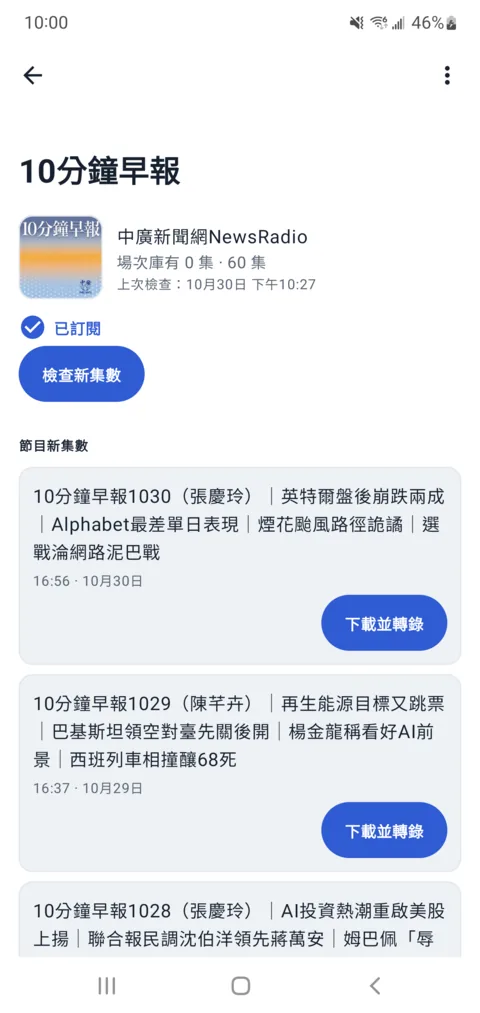
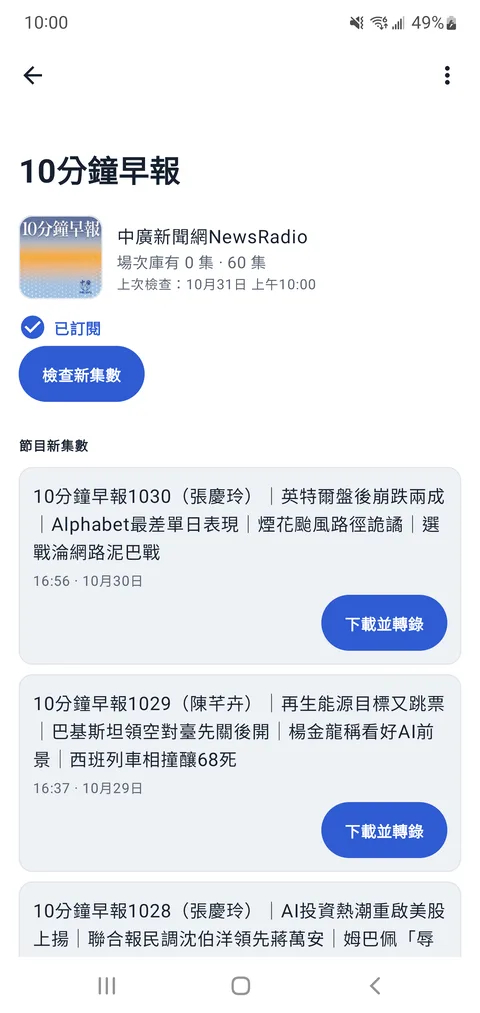
landing-v2: og image in the slate/blue palette, channel shot with a 10:00 last check

diff --git a/landing-v2/index.html b/landing-v2/index.html
@@ -9,7 +9,7 @@
 <meta property="og:type" content="website">
 <meta property="og:title" content="Prime Minutes｜會議紀錄，在手機上就寫好">
 <meta property="og:description" content="逐字稿、分辨講者、AI 筆記與摘要、搜尋與提問，全程在手機上完成，不上傳。">
-<meta property="og:image" content="site/og.png">
+<meta property="og:image" content="assets/og.png">
 <link rel="icon" href="assets/favicon.svg" type="image/svg+xml">
 <style>
 /* P2 cool slate + blue accent; red only for record / live */

diff --git a/landing-v2/media-needed.md b/landing-v2/media-needed.md
@@ -17,3 +17,5 @@ Format: webp 480 px wide, 9:19.5 portrait unless noted; zh-TW UI, light theme; d
 | M12 | og:image | 1200×630 in slate/blue palette | — | site/og.png (dark/green) |
 
 Already P2 and reusable as-is: share-sheet-zh, share-pdf-zh, import-cloud-zh (iOS reshoot 2026-10-30).
+
+Status 2026-10-31 (Android remainder pass): M12 done as `assets/og.png` (1200×630, slate/blue, from the P2 summary and notes shots; `og:image` now points there instead of the old root `site/og.png`). M9 `channel-zh.webp` reshot with the last-check time pinned to 10:00. M10 is iPhone-only (not in this pass). M11 left as text: citation preview and collections are merged on Android but not released on either platform yet.
